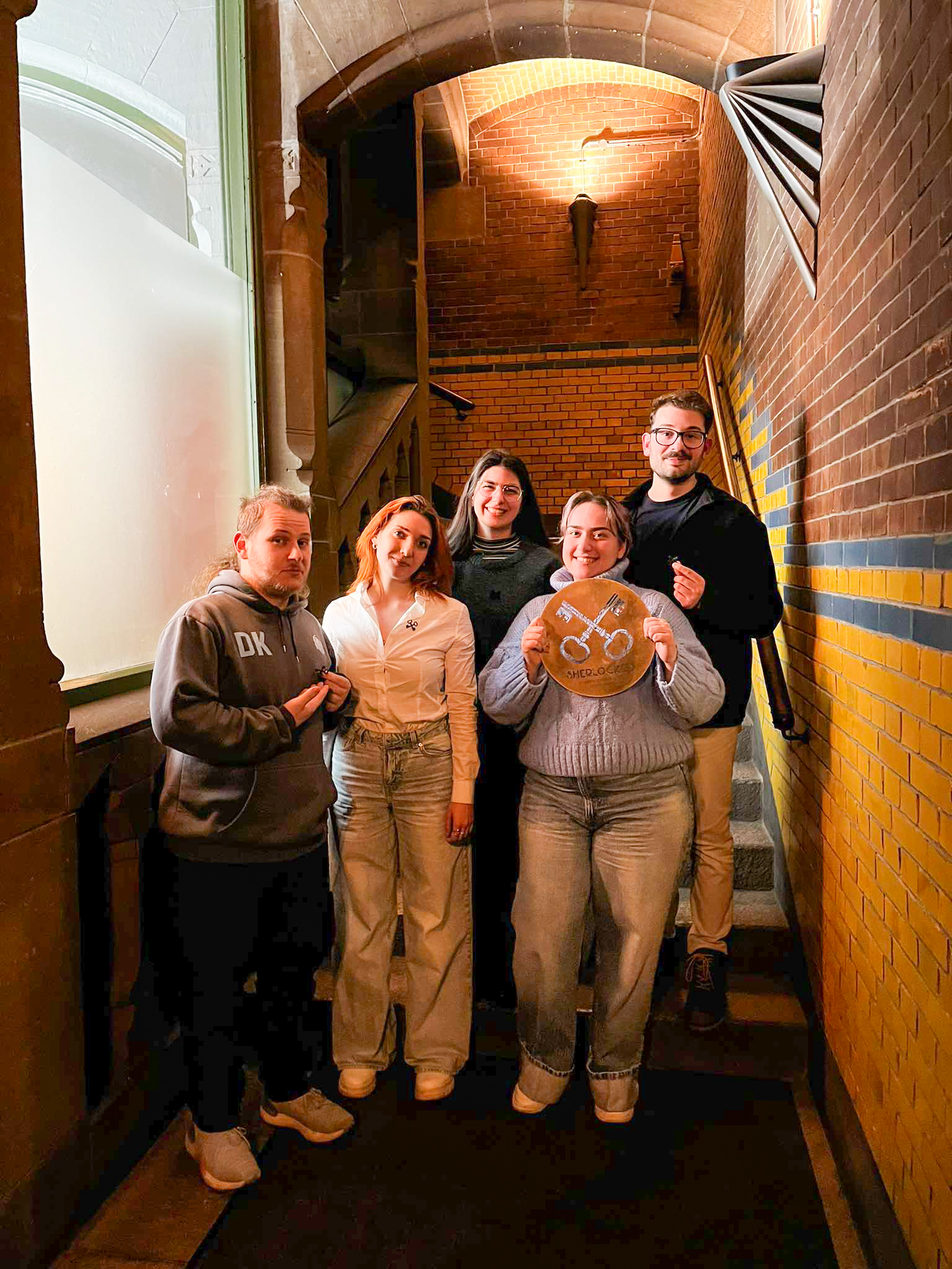
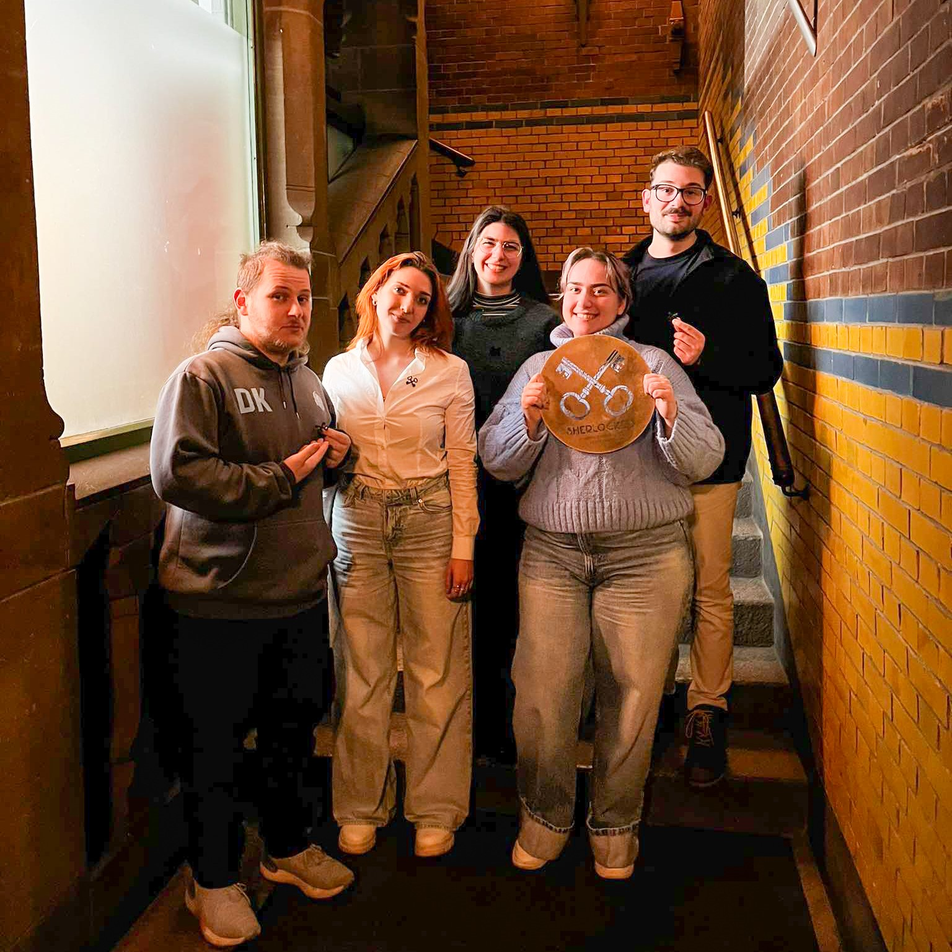
Edited the photos a bit

diff --git a/index.html b/index.html
@@ -219,6 +219,13 @@
             <div class="gallery main-gallery">
 
               <figure>
+                <img width="600" height="338" src="img/rocket-group-photo.jpg"
+                  alt="All the experimenters and researchers involved in the launch of the DROPSTAR experiment.">
+                <figcaption>All the experimenters and researchers involved in the launch of the DROPSTAR experiment.
+                </figcaption>
+              </figure>
+
+              <figure>
                 <img width="600" height="338" src="img/operations-room.jpg"
                   alt="The operations room for the launch of the DROPSTAR experiment.">
                 <figcaption>The operations room for the launch of the DROPSTAR experiment.</figcaption>
@@ -228,13 +235,6 @@
                 <img width="600" height="338" src="img/nasa-spaceapps-presentation.jpg"
                   alt="Presenting BEAM and Space Technology at the NASA Space Apps Challenge 2022.">
                 <figcaption>Presenting BEAM and Space Technology at the NASA Space Apps Challenge 2022.</figcaption>
-              </figure>
-
-              <figure>
-                <img width="600" height="338" src="img/rocket-group-photo.jpg"
-                  alt="A group photo of all the experimenters and researchers involved in the Rocket launch of the DROPSTAR experiment.">
-                <figcaption>A group photo of all the experimenters and researchers involved in the Rocket launch of the
-                  DROPSTAR experiment.</figcaption>
               </figure>
 
             </div>
